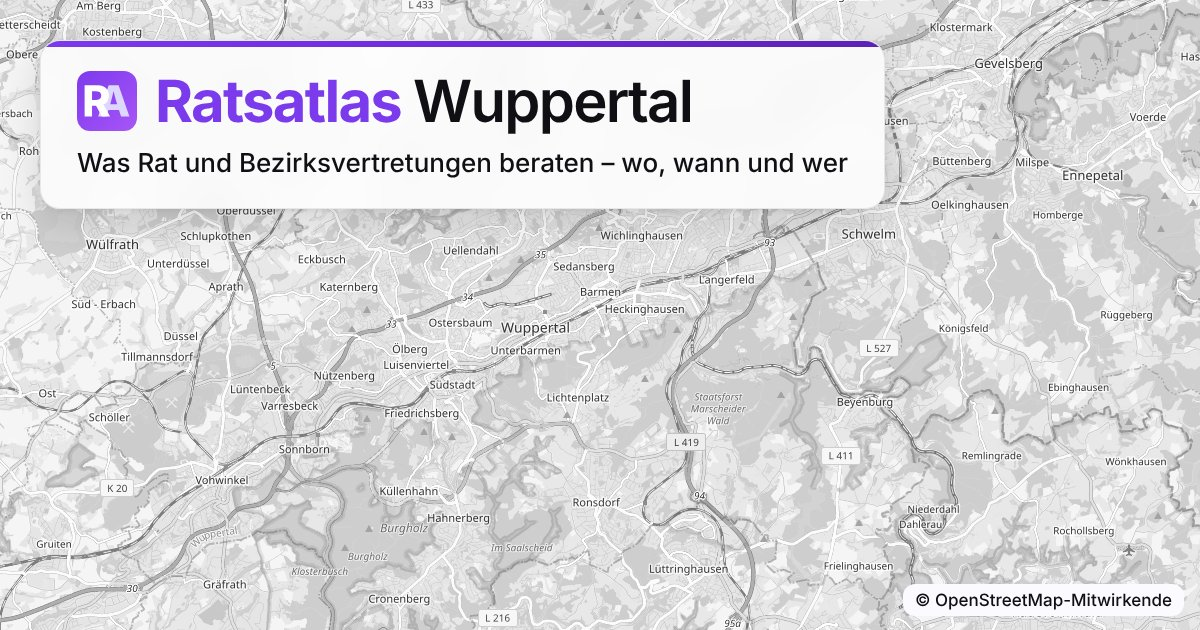
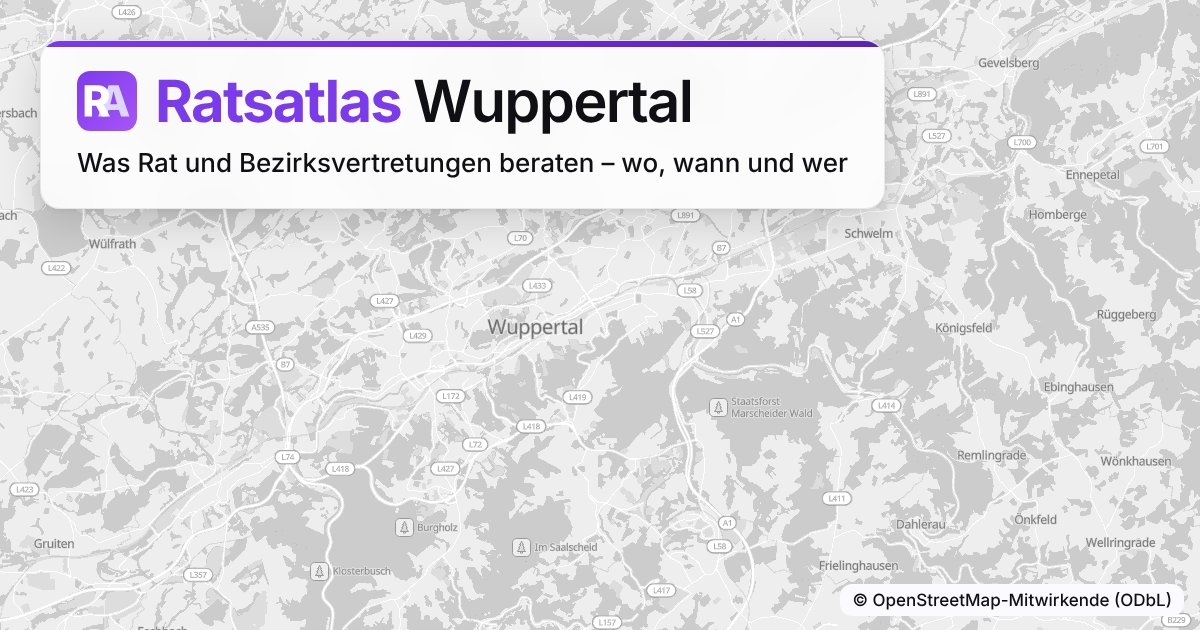
Vorschaubild aus den eigenen grauen Kacheln neu erzeugt
site/vorschaubild.jpg neu mit tools/vorschaubild.mjs: Kacheln aus dem
Branch „kacheln“ (Ordner _kacheln wie pages.yml), keine Anfrage an
fremde Server; Namensnennung im Bild „© OpenStreetMap-Mitwirkende
(ODbL)“. Ausschnitt weiter um den Stadtmittelpunkt, keine Geodaten der
Stadt im Bild. NOTICE, data/LICENSE-DATA.md und Test angepasst.

Claude-Session: https://claude.ai/code/session_01GcBuawAFLNqGg8WhzdfHRq

diff --git a/tests/test_vorschaubild.py b/tests/test_vorschaubild.py
@@ -99,7 +99,16 @@ def test_skript_fragt_nur_osm_kacheln_an():
     # graue Standardansicht der Seite, Ausschnitt aus site/app.js, Maße mit deviceScaleFactor 1
     assert 'm.classList.contains("map-gray")' in text and "deviceScaleFactor: 1" in text
     assert "STADT_MITTE" in text and "Messstufe G" in text
-    assert "© OpenStreetMap-Mitwirkende" in text
+    assert "© OpenStreetMap-Mitwirkende (ODbL)" in text
+
+
+def test_skript_nimmt_eigene_kacheln():
+    """Neuerzeugung 20.11.2026: eigene graue Kacheln (Klasse map-grau, Ordner _kacheln wie pages.yml), Rückfall wie im
+    Betrieb auf OSM mit Graufilter; die Ausgabe nennt, welche Kacheln das Bild zeigt."""
+    text = SKRIPT.read_text(encoding="utf-8")
+    assert 'm.classList.contains("map-grau") || m.classList.contains("map-gray")' in text
+    assert "_kacheln/kacheln" in text and 'eigeneKacheln ? "eigene Kacheln" : "OSM-Kacheln"' in text
+    assert "RATSATLAS_GEBIETSKARTE" not in text.split("async function main")[1]
 
 
 def test_bild_ist_grau():

diff --git a/CLAUDE.md b/CLAUDE.md
@@ -203,3 +203,4 @@ Zusätzlich schwache Evidenz `district_from_committee`: nur eine Bezirksvertretu
 - 19.11.2026 (Handprüfung von 30 Verortungen, Auswahl des Auftraggebers nach Empfehlung): 26 richtig, 4 teilweise, 0 falsch (Präzision 0,87, 95-%-Intervall 0,70–0,95; mit Teiltreffern 1,00). Korrekturen ohne Anfragen an die Stadt (`pipeline/ortsverzeichnis.py`, `ortsnamen.py`, `orte_kuratiert.py`): Namen von Objekten der Ortsliste verdecken Gebietsnamen („Kunsthalle Barmen“ ergibt keinen Stadtbezirk Barmen), eine Straße im Objektnamen bleibt im Quartier des Objekts („GS Schützenstr.“ → Sedansberg); Kurzformen mit Ergänzungsstrich („Olga- und Gudrunstraße“); „Innenstadt Elberfeld/Barmen“ → Quartier Elberfeld bzw. Barmen-Mitte (Annahme); „GS“ als Kurzform von Grundschulen. Straßen, die im Text verneint werden („nicht betroffen“), werden nur gezählt, keine Regel. Hauspunkte: Bei Vorlagen ohne Personenbezug (Verkehr, Bau, Einrichtungen) bleibt der Hauspunkt, auch an Wohnhäusern (Fall „Rädchen 36 und 38“); bei Anregungen und Beschwerden nach § 24 GO NRW und Eingaben weiter gesperrt (`maske.hausnummer_punkt_erlaubt`).
 - 20.11.2026 (Auswahl des Auftraggebers): Öffnet oder schließt sich die Liste auf breiten Bildschirmen, während ganz Wuppertal gewählt ist und die Karte die Übersicht der Stadtbezirke zeigt, wird die Stadt neu in das freie Kartenfeld eingepasst (`listeEinpassen` in `site/app.js`); ist schon ein Stadtbezirk vergrößert, bleibt die Ansicht. Die Bezirksnamen werden bei jeder neuen Zoomstufe der Übersicht neu entzerrt.
 - 20.11.2026 (Auftraggeber): Der Hinweis „Vorschau: Diese Fassung zeigt die Ratsdaten zur Abstimmung mit der Stadt Wuppertal …“ entfällt im Startfenster „Los geht's“. Die Vorschau bleibt nicht indexiert (`RATSATLAS_VORSCHAU`: noindex, X-Robots-Tag); die Lizenzangabe der Ratsdaten („Nutzung mündlich zugesagt, schriftliche Bestätigung und Lizenz ausstehend“) bleibt in den Quellenhinweisen.
+- 20.11.2026 (Auftraggeber: „Ja“): Vorschaubild für geteilte Links (`site/vorschaubild.jpg`) neu erzeugt mit `tools/vorschaubild.mjs` aus den eigenen grauen Kacheln (Branch `kacheln`, ohne Anfrage an fremde Server), Namensnennung im Bild „© OpenStreetMap-Mitwirkende (ODbL)“. Ausschnitt weiter um den Stadtmittelpunkt: Der Ausschnitt aus den Flächen der Stadtbezirke rechnet das Startfenster ein und zeigt die Stadt klein am linken Rand (Probe); im Bild keine Geodaten der Stadt.

diff --git a/data/LICENSE-DATA.md b/data/LICENSE-DATA.md
@@ -37,7 +37,7 @@ Stand 17.11.2026: Die Quartiere, Stadtbezirke, rechtsverbindlichen Bebauungsplä
 | Quelle | Lizenz | Verwendung |
 |---|---|---|
 | OpenStreetMap (Photon/Nominatim) | ODbL 1.0, © OpenStreetMap-Mitwirkende | nur nachrangig für Orte ohne Adresse, getrennt gekennzeichnet |
-| OpenStreetMap, Kacheln von `tile.openstreetmap.org` | Daten ODbL 1.0, © OpenStreetMap-Mitwirkende; für die Kartendarstellung nennt openstreetmap.org/copyright keine Lizenz (geprüft 10.11.2026, offen), Kacheln nach der Tile Usage Policy der OSMF | graue und farbige Karte der Seite; Vorschaubild `vorschaubild.jpg` (`tools/vorschaubild.mjs`; im Bild steht „© OpenStreetMap-Mitwirkende“, der Hinweis auf die ODbL fehlt dort noch, offen) |
+| OpenStreetMap, Kacheln von `tile.openstreetmap.org` | Daten ODbL 1.0, © OpenStreetMap-Mitwirkende; für die Kartendarstellung nennt openstreetmap.org/copyright keine Lizenz (geprüft 10.11.2026, offen), Kacheln nach der Tile Usage Policy der OSMF | farbige Karte der Seite und Ersatz, wenn die eigenen grauen Kacheln fehlen; bis 20.11.2026 auch das Vorschaubild `vorschaubild.jpg`, das seither aus den eigenen grauen Kacheln erzeugt wird (`tools/vorschaubild.mjs`, im Bild „© OpenStreetMap-Mitwirkende (ODbL)“) |
 | Planungs-WMS der Stadt (`https://maps.wuppertal.de/planung`) | nicht angegeben | nur Verweis, nicht eingebunden |
 | Wegweiser Kommune (Bertelsmann Stiftung) | CC0 1.0 | Strukturdaten der Gesamtstadt; noch nicht eingebunden |
 
